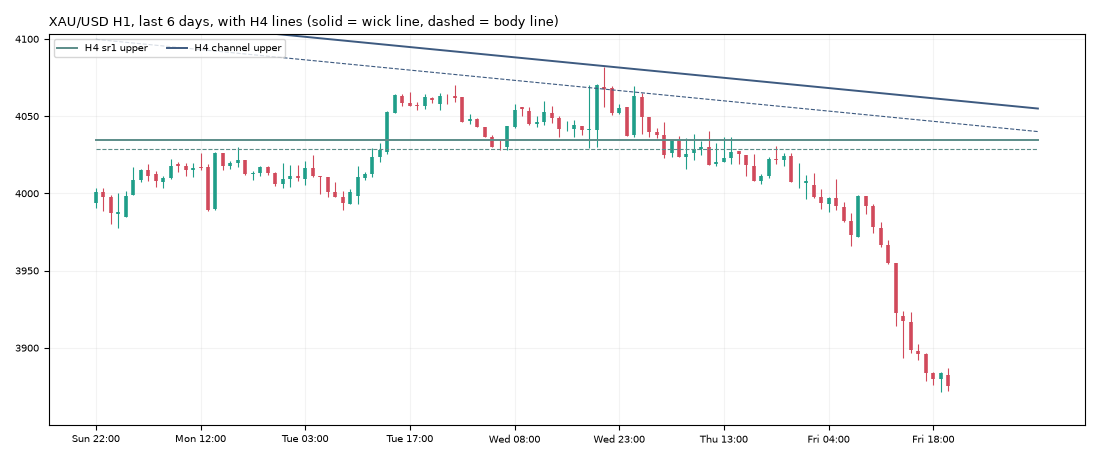
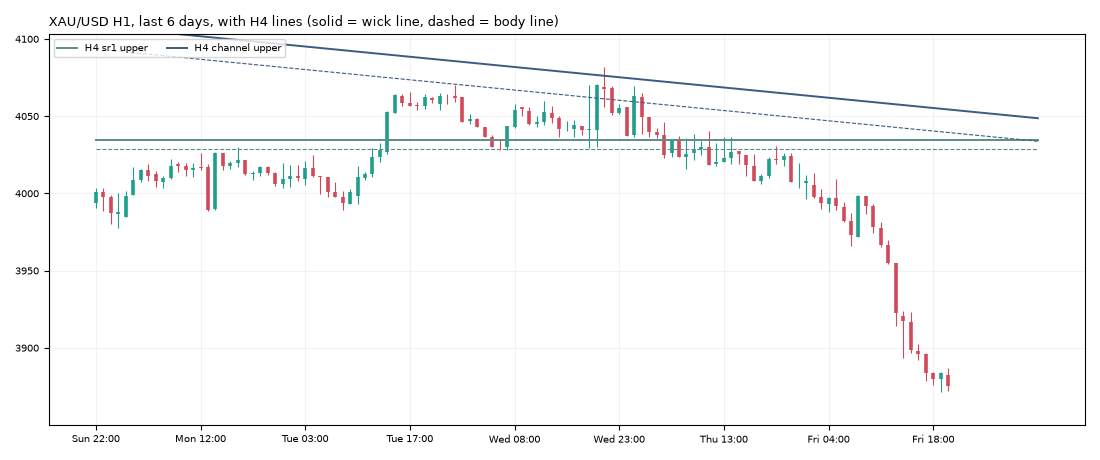
daily report: 2026-10-31

Changed region(s): [[0.2164, 0.0609, 0.9582, 0.3043], [0.1855, 0.0609, 0.2164, 0.0913]]

diff --git a/reports/daily/2026-10-31.md b/reports/daily/2026-10-31.md
@@ -43,8 +43,8 @@ Closed trades since the start:
 |---|---|---|---|---|---|---|
 | 4h | sr1 | upper | 4,034.68 | 4,028.79 | 3 | +159.17 |
 | 1h | sr1 | upper | 4,036.49 | 4,030.21 | 4 | +160.98 |
-| 4h | channel | upper | 4,060.68 | 4,045.76 | 3 | +185.17 |
-| 1h | channel | upper | 4,183.14 | 4,170.16 | 3 | +307.63 |
+| 4h | channel | upper | 4,054.40 | 4,039.48 | 3 | +178.89 |
+| 1h | channel | upper | 4,209.95 | 4,196.97 | 3 | +334.44 |
 
 **Watch windows (Sun 01 Nov, UTC):** London open 07:00-09:00 (fake-out risk), US data 12:30 / 13:30, NY open 13:30-14:30, rollover 21:00-22:00 (wide spreads).
 

diff --git a/reports/paper_report.md b/reports/paper_report.md
@@ -1,6 +1,6 @@
 # Paper trading report
 
-Last run: 2026-10-31T02:14:55.177663+00:00 | last bar 2026-10-30 20:45:00+00:00 | basis 0.00 spot=3875.36 last_bar_close=3875.51
+Last run: 2026-10-31T14:17:06.939978+00:00 | last bar 2026-10-30 20:45:00+00:00 | basis 0.00 spot=3875.36 last_bar_close=3875.51
 Equity: 10,002.22 (closed +0.00, open +2.22)
 
 ## Route status (backtest + paper, recency-weighted)
